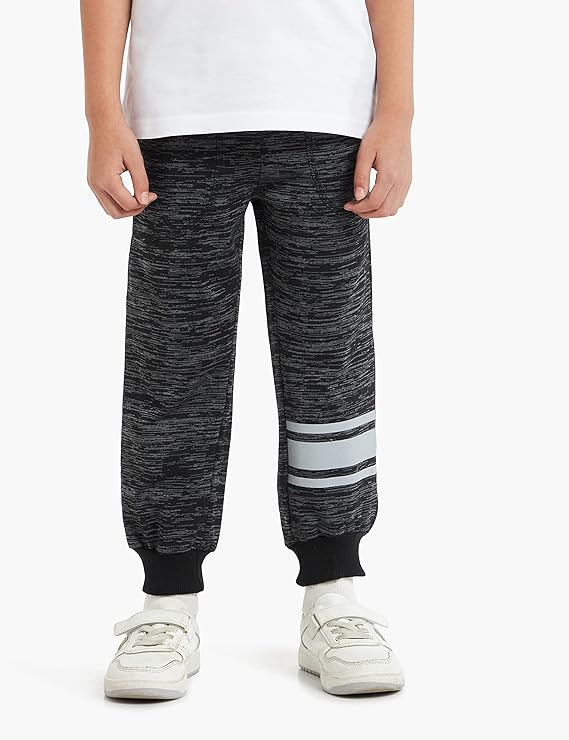
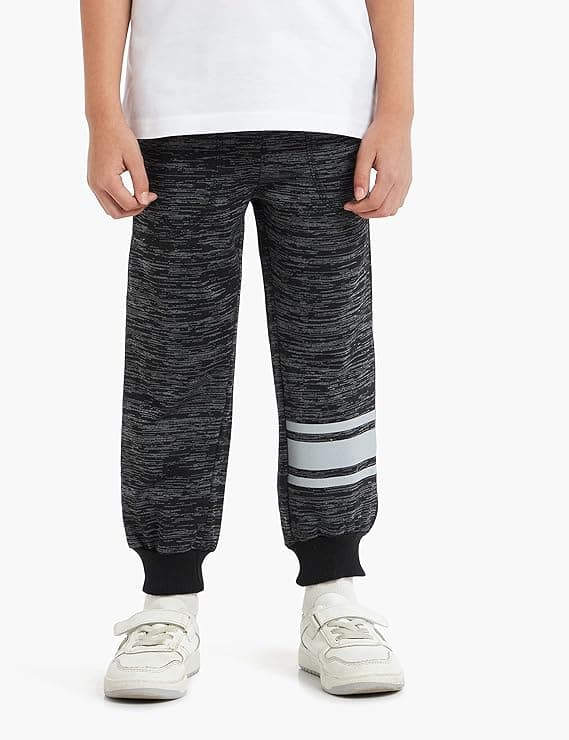
png to jpg all images

Changed region(s): [[0.5975, 0.3108, 0.6573, 0.5905], [0.6274, 0.6216, 0.6573, 0.7149], [0.239, 0.2797, 0.2689, 0.3108]]

diff --git a/lib/constants.ts b/lib/constants.ts
@@ -53,21 +53,21 @@ export const BOYS_PRODUCTS: Product[] = [
     name: 'Full Sleeves 1',
     category: 'Full Sleeves',
     gender: 'boys',
-    images: '/images/boys shortlisted/Full Sleeves/Gemini_Generated_Image_18rius18rius18ri.png',
+    images: '/images/boys shortlisted/Full Sleeves/Gemini_Generated_Image_18rius18rius18ri.jpg',
   },
   {
     id: 2,
     name: 'Full Sleeves 2',
     category: 'Full Sleeves',
     gender: 'boys',
-    images: '/images/boys shortlisted/Full Sleeves/Gemini_Generated_Image_wv47eqwv47eqwv47.png',
+    images: '/images/boys shortlisted/Full Sleeves/Gemini_Generated_Image_wv47eqwv47eqwv47.jpg',
   },
   {
     id: 3,
     name: 'Full Sleeves 3',
     category: 'Full Sleeves',
     gender: 'boys',
-    images: '/images/boys shortlisted/Full Sleeves/Gemini_Generated_Image_xvmfptxvmfptxvmf.png',
+    images: '/images/boys shortlisted/Full Sleeves/Gemini_Generated_Image_xvmfptxvmfptxvmf.jpg',
   },
   // Hoodie
   {
@@ -75,21 +75,21 @@ export const BOYS_PRODUCTS: Product[] = [
     name: 'Hoodie 1',
     category: 'Hoodie',
     gender: 'boys',
-    images: '/images/boys shortlisted/Hoodie/Gemini_Generated_Image_1a68y31a68y31a68.png',
+    images: '/images/boys shortlisted/Hoodie/Gemini_Generated_Image_1a68y31a68y31a68.jpg',
   },
   {
     id: 5,
     name: 'Hoodie 2',
     category: 'Hoodie',
     gender: 'boys',
-    images: '/images/boys shortlisted/Hoodie/Gemini_Generated_Image_igprgwigprgwigpr.png',
+    images: '/images/boys shortlisted/Hoodie/Gemini_Generated_Image_igprgwigprgwigpr.jpg',
   },
   {
     id: 6,
     name: 'Hoodie 3',
     category: 'Hoodie',
     gender: 'boys',
-    images: '/images/boys shortlisted/Hoodie/Gemini_Generated_Image_llsctyllsctyllsc.png',
+    images: '/images/boys shortlisted/Hoodie/Gemini_Generated_Image_llsctyllsctyllsc.jpg',
   },
   // Joggers
   {
@@ -97,14 +97,14 @@ export const BOYS_PRODUCTS: Product[] = [
     name: 'Joggers 1',
     category: 'Joggers',
     gender: 'boys',
-    images: '/images/boys shortlisted/Joggers/Gemini_Generated_Image_7o1x087o1x087o1x.png',
+    images: '/images/boys shortlisted/Joggers/Gemini_Generated_Image_7o1x087o1x087o1x.jpg',
   },
   {
     id: 8,
     name: 'Joggers 2',
     category: 'Joggers',
     gender: 'boys',
-    images: '/images/boys shortlisted/Joggers/Gemini_Generated_Image_95ssly95ssly95ss.png',
+    images: '/images/boys shortlisted/Joggers/Gemini_Generated_Image_95ssly95ssly95ss.jpg',
   },
   {
     id: 9,
@@ -119,14 +119,14 @@ export const BOYS_PRODUCTS: Product[] = [
     name: 'Polos 1',
     category: 'Polos',
     gender: 'boys',
-    images: '/images/boys shortlisted/Polos/Gemini_Generated_Image_f9yaibf9yaibf9ya.png',
+    images: '/images/boys shortlisted/Polos/Gemini_Generated_Image_f9yaibf9yaibf9ya.jpg',
   },
   {
     id: 11,
     name: 'Polos 2',
     category: 'Polos',
     gender: 'boys',
-    images: '/images/boys shortlisted/Polos/Gemini_Generated_Image_fpbfc8fpbfc8fpbf.png',
+    images: '/images/boys shortlisted/Polos/Gemini_Generated_Image_fpbfc8fpbfc8fpbf.jpg',
   },
   // Printed Full Sleeves
   {
@@ -134,7 +134,7 @@ export const BOYS_PRODUCTS: Product[] = [
     name: 'Printed Full Sleeves 1',
     category: 'Printed Full Sleeves',
     gender: 'boys',
-    images: '/images/boys shortlisted/Printed Full Sleeves/Gemini_Generated_Image_22d0fi22d0fi22d0.png',
+    images: '/images/boys shortlisted/Printed Full Sleeves/Gemini_Generated_Image_22d0fi22d0fi22d0.jpg',
   },
   // Printed Polo
   {
@@ -142,21 +142,21 @@ export const BOYS_PRODUCTS: Product[] = [
     name: 'Printed Polo 1',
     category: 'Printed Polo',
     gender: 'boys',
-    images: '/images/boys shortlisted/Printed Polo/Gemini_Generated_Image_d1b7d3d1b7d3d1b7.png',
+    images: '/images/boys shortlisted/Printed Polo/Gemini_Generated_Image_d1b7d3d1b7d3d1b7.jpg',
   },
   {
     id: 14,
     name: 'Printed Polo 2',
     category: 'Printed Polo',
     gender: 'boys',
-    images: '/images/boys shortlisted/Printed Polo/Gemini_Generated_Image_h3z66th3z66th3z6.png',
+    images: '/images/boys shortlisted/Printed Polo/Gemini_Generated_Image_h3z66th3z66th3z6.jpg',
   },
   {
     id: 15,
     name: 'Printed Polo 3',
     category: 'Printed Polo',
     gender: 'boys',
-    images: '/images/boys shortlisted/Printed Polo/Gemini_Generated_Image_tv95iytv95iytv95.png',
+    images: '/images/boys shortlisted/Printed Polo/Gemini_Generated_Image_tv95iytv95iytv95.jpg',
   },
   // Shorts
   {
@@ -164,21 +164,21 @@ export const BOYS_PRODUCTS: Product[] = [
     name: 'Shorts 1',
     category: 'Shorts',
     gender: 'boys',
-    images: '/images/boys shortlisted/Shorts/ChatGPT Image Mar 18, 2026, 02_05_31 PM.png',
+    images: '/images/boys shortlisted/Shorts/ChatGPT Image Mar 18, 2026, 02_05_31 PM.jpg',
   },
   {
     id: 17,
     name: 'Shorts 2',
     category: 'Shorts',
     gender: 'boys',
-    images: '/images/boys shortlisted/Shorts/Gemini_Generated_Image_5925s85925s85925.png',
+    images: '/images/boys shortlisted/Shorts/Gemini_Generated_Image_5925s85925s85925.jpg',
   },
   {
     id: 18,
     name: 'Shorts 3',
     category: 'Shorts',
     gender: 'boys',
-    images: '/images/boys shortlisted/Shorts/Gemini_Generated_Image_syaucksyaucksyau.png',
+    images: '/images/boys shortlisted/Shorts/Gemini_Generated_Image_syaucksyaucksyau.jpg',
   },
   // Slub Shorts
   {
@@ -186,21 +186,21 @@ export const BOYS_PRODUCTS: Product[] = [
     name: 'Slub Shorts 1',
     category: 'Slub Shorts',
     gender: 'boys',
-    images: '/images/boys shortlisted/Slub Shorts/Gemini_Generated_Image_8wnziu8wnziu8wnz (1).png',
+    images: '/images/boys shortlisted/Slub Shorts/Gemini_Generated_Image_8wnziu8wnziu8wnz (1).jpg',
   },
   {
     id: 20,
     name: 'Slub Shorts 2',
     category: 'Slub Shorts',
     gender: 'boys',
-    images: '/images/boys shortlisted/Slub Shorts/Gemini_Generated_Image_fzlizjfzlizjfzli.png',
+    images: '/images/boys shortlisted/Slub Shorts/Gemini_Generated_Image_fzlizjfzlizjfzli.jpg',
   },
   {
     id: 21,
     name: 'Slub Shorts 3',
     category: 'Slub Shorts',
     gender: 'boys',
-    images: '/images/boys shortlisted/Slub Shorts/Gemini_Generated_Image_m57e6vm57e6vm57e-Photoroom.png',
+    images: '/images/boys shortlisted/Slub Shorts/Gemini_Generated_Image_m57e6vm57e6vm57e-Photoroom.jpg',
   },
   // Solid Tshirts
   {
@@ -208,21 +208,21 @@ export const BOYS_PRODUCTS: Product[] = [
     name: 'Solid Tshirts 1',
     category: 'Solid Tshirts',
     gender: 'boys',
-    images: '/images/boys shortlisted/Solid Tshirts/Gemini_Generated_Image_e2phu9e2phu9e2ph-Photoroom.png',
+    images: '/images/boys shortlisted/Solid Tshirts/Gemini_Generated_Image_e2phu9e2phu9e2ph-Photoroom.jpg',
   },
   {
     id: 23,
     name: 'Solid Tshirts 2',
     category: 'Solid Tshirts',
     gender: 'boys',
-    images: '/images/boys shortlisted/Solid Tshirts/JWiOr-Photoroom.png',
+    images: '/images/boys shortlisted/Solid Tshirts/JWiOr-Photoroom.jpg',
   },
   {
     id: 24,
     name: 'Solid Tshirts 3',
     category: 'Solid Tshirts',
     gender: 'boys',
-    images: '/images/boys shortlisted/Solid Tshirts/qYMfp-Photoroom.png',
+    images: '/images/boys shortlisted/Solid Tshirts/qYMfp-Photoroom.jpg',
   },
 ];
 
@@ -233,21 +233,21 @@ export const GIRLS_PRODUCTS: Product[] = [
     name: 'Coord Set 1',
     category: 'Coord Set',
     gender: 'girls',
-    images: '/images/girls shortlisted/Coord Set/ChatGPT Image Feb 17, 2026, 01_18_00 PM.png',
+    images: '/images/girls shortlisted/Coord Set/ChatGPT Image Feb 17, 2026, 01_18_00 PM.jpg',
   },
   {
     id: 26,
     name: 'Coord Set 2',
     category: 'Coord Set',
     gender: 'girls',
-    images: '/images/girls shortlisted/Coord Set/Gemini_Generated_Image_awt7r6awt7r6awt7.png',
+    images: '/images/girls shortlisted/Coord Set/Gemini_Generated_Image_awt7r6awt7r6awt7.jpg',
   },
   {
     id: 27,
     name: 'Coord Set 3',
     category: 'Coord Set',
     gender: 'girls',
-    images: '/images/girls shortlisted/Coord Set/Gemini_Generated_Image_pi4zu3pi4zu3pi4z.png',
+    images: '/images/girls shortlisted/Coord Set/Gemini_Generated_Image_pi4zu3pi4zu3pi4z.jpg',
   },
   // Hoodies
   {
@@ -269,7 +269,7 @@ export const GIRLS_PRODUCTS: Product[] = [
     name: 'Hoodies 3',
     category: 'Hoodies',
     gender: 'girls',
-    images: '/images/girls shortlisted/Hoodies/Gemini_Generated_Image_2v5wzi2v5wzi2v5w.png',
+    images: '/images/girls shortlisted/Hoodies/Gemini_Generated_Image_2v5wzi2v5wzi2v5w.jpg',
   },
   // Joggers
   {
@@ -277,21 +277,21 @@ export const GIRLS_PRODUCTS: Product[] = [
     name: 'Joggers 1',
     category: 'Joggers',
     gender: 'girls',
-    images: '/images/girls shortlisted/Joggers/Gemini_Generated_Image_2o6ugp2o6ugp2o6u.png',
+    images: '/images/girls shortlisted/Joggers/Gemini_Generated_Image_2o6ugp2o6ugp2o6u.jpg',
   },
   {
     id: 32,
     name: 'Joggers 2',
     category: 'Joggers',
     gender: 'girls',
-    images: '/images/girls shortlisted/Joggers/Gemini_Generated_Image_7z75ub7z75ub7z75.png',
+    images: '/images/girls shortlisted/Joggers/Gemini_Generated_Image_7z75ub7z75ub7z75.jpg',
   },
   {
     id: 33,
     name: 'Joggers 3',
     category: 'Joggers',
     gender: 'girls',
-    images: '/images/girls shortlisted/Joggers/Gemini_Generated_Image_v9rjijv9rjijv9rj.png',
+    images: '/images/girls shortlisted/Joggers/Gemini_Generated_Image_v9rjijv9rjijv9rj.jpg',
   },
   // Pajamas
   {
@@ -299,7 +299,7 @@ export const GIRLS_PRODUCTS: Product[] = [
     name: 'Pajamas 1',
     category: 'Pajamas',
     gender: 'girls',
-    images: '/images/girls shortlisted/Pajamas/Gemini_Generated_Image_69clf769clf769cl.png',
+    images: '/images/girls shortlisted/Pajamas/Gemini_Generated_Image_69clf769clf769cl.jpg',
   },
   // Shorts
   {
@@ -307,21 +307,21 @@ export const GIRLS_PRODUCTS: Product[] = [
     name: 'Shorts 1',
     category: 'Shorts',
     gender: 'girls',
-    images: '/images/girls shortlisted/Shorts/Firefly_Gemini Flash_intha image vanthu 13-14 years rendu girl model wear panni irukura maari venum and av 203503 (1)-Photoroom.png',
+    images: '/images/girls shortlisted/Shorts/Firefly_Gemini Flash_intha image vanthu 13-14 years rendu girl model wear panni irukura maari venum and av 203503-Photoroom.jpg',
   },
   {
     id: 36,
     name: 'Shorts 2',
     category: 'Shorts',
     gender: 'girls',
-    images: '/images/girls shortlisted/Shorts/Firefly_Gemini Flash_intha image vanthu 13-14 years rendu girl model wear panni irukura maari venum and av 203503-Photoroom.png',
+    images: '/images/girls shortlisted/Shorts/Firefly_Gemini Flash_intha image vanthu 13-14 years rendu girl model wear panni irukura maari venum and av 203503-Photoroom.jpg',
   },
   {
     id: 37,
     name: 'Shorts 3',
     category: 'Shorts',
     gender: 'girls',
-    images: '/images/girls shortlisted/Shorts/Gemini_Generated_Image_2ubpkf2ubpkf2ubp.png',
+    images: '/images/girls shortlisted/Shorts/Gemini_Generated_Image_2ubpkf2ubpkf2ubp.jpg',
   },
   // Sleeper
   {
@@ -329,20 +329,20 @@ export const GIRLS_PRODUCTS: Product[] = [
     name: 'Sleeper 1',
     category: 'Sleeper',
     gender: 'girls',
-    images: '/images/girls shortlisted/Sleeper/Gemini_Generated_Image_mbojr0mbojr0mboj.png',
+    images: '/images/girls shortlisted/Sleeper/Gemini_Generated_Image_mbojr0mbojr0mboj.jpg',
   },
   {
     id: 39,
     name: 'Sleeper 2',
     category: 'Sleeper',
     gender: 'girls',
-    images: '/images/girls shortlisted/Sleeper/Gemini_Generated_Image_udde4budde4budde.png',
+    images: '/images/girls shortlisted/Sleeper/Gemini_Generated_Image_udde4budde4budde.jpg',
   },
   {
     id: 40,
     name: 'Sleeper 3',
     category: 'Sleeper',
     gender: 'girls',
-    images: '/images/girls shortlisted/Sleeper/Gemini_Generated_Image_x09j6dx09j6dx09j.png',
+    images: '/images/girls shortlisted/Sleeper/Gemini_Generated_Image_x09j6dx09j6dx09j.jpg',
   },
 ];

diff --git a/app/[category]/page.tsx b/app/[category]/page.tsx
@@ -12,50 +12,50 @@ import { containerVariants, itemVariants } from '@/lib/animations';
 
 // All boy shortlisted images
 const BOYS_IMAGES = [
-  '/images/boys shortlisted/Full Sleeves/Gemini_Generated_Image_18rius18rius18ri.png',
-  '/images/boys shortlisted/Full Sleeves/Gemini_Generated_Image_wv47eqwv47eqwv47.png',
-  '/images/boys shortlisted/Full Sleeves/Gemini_Generated_Image_xvmfptxvmfptxvmf.png',
-  '/images/boys shortlisted/Hoodie/Gemini_Generated_Image_1a68y31a68y31a68.png',
-  '/images/boys shortlisted/Hoodie/Gemini_Generated_Image_igprgwigprgwigpr.png',
-  '/images/boys shortlisted/Hoodie/Gemini_Generated_Image_llsctyllsctyllsc.png',
-  '/images/boys shortlisted/Joggers/Gemini_Generated_Image_7o1x087o1x087o1x.png',
-  '/images/boys shortlisted/Joggers/Gemini_Generated_Image_95ssly95ssly95ss.png',
+  '/images/boys shortlisted/Full Sleeves/Gemini_Generated_Image_18rius18rius18ri.jpg',
+  '/images/boys shortlisted/Full Sleeves/Gemini_Generated_Image_wv47eqwv47eqwv47.jpg',
+  '/images/boys shortlisted/Full Sleeves/Gemini_Generated_Image_xvmfptxvmfptxvmf.jpg',
+  '/images/boys shortlisted/Hoodie/Gemini_Generated_Image_1a68y31a68y31a68.jpg',
+  '/images/boys shortlisted/Hoodie/Gemini_Generated_Image_igprgwigprgwigpr.jpg',
+  '/images/boys shortlisted/Hoodie/Gemini_Generated_Image_llsctyllsctyllsc.jpg',
+  '/images/boys shortlisted/Joggers/Gemini_Generated_Image_7o1x087o1x087o1x.jpg',
+  '/images/boys shortlisted/Joggers/Gemini_Generated_Image_95ssly95ssly95ss.jpg',
   '/images/boys shortlisted/Joggers/img 2.jpg',
-  '/images/boys shortlisted/Polos/Gemini_Generated_Image_f9yaibf9yaibf9ya.png',
-  '/images/boys shortlisted/Polos/Gemini_Generated_Image_fpbfc8fpbfc8fpbf.png',
-  '/images/boys shortlisted/Printed Full Sleeves/Gemini_Generated_Image_22d0fi22d0fi22d0.png',
-  '/images/boys shortlisted/Printed Polo/Gemini_Generated_Image_d1b7d3d1b7d3d1b7.png',
-  '/images/boys shortlisted/Printed Polo/Gemini_Generated_Image_h3z66th3z66th3z6.png',
-  '/images/boys shortlisted/Printed Polo/Gemini_Generated_Image_tv95iytv95iytv95.png',
-  '/images/boys shortlisted/Shorts/ChatGPT Image Mar 18, 2026, 02_05_31 PM.png',
-  '/images/boys shortlisted/Shorts/Gemini_Generated_Image_5925s85925s85925.png',
-  '/images/boys shortlisted/Shorts/Gemini_Generated_Image_syaucksyaucksyau.png',
-  '/images/boys shortlisted/Slub Shorts/Gemini_Generated_Image_8wnziu8wnziu8wnz (1).png',
-  '/images/boys shortlisted/Slub Shorts/Gemini_Generated_Image_fzlizjfzlizjfzli.png',
-  '/images/boys shortlisted/Slub Shorts/Gemini_Generated_Image_m57e6vm57e6vm57e-Photoroom.png',
-  '/images/boys shortlisted/Solid Tshirts/Gemini_Generated_Image_e2phu9e2phu9e2ph-Photoroom.png',
-  '/images/boys shortlisted/Solid Tshirts/JWiOr-Photoroom.png',
-  '/images/boys shortlisted/Solid Tshirts/qYMfp-Photoroom.png',
+  '/images/boys shortlisted/Polos/Gemini_Generated_Image_f9yaibf9yaibf9ya.jpg',
+  '/images/boys shortlisted/Polos/Gemini_Generated_Image_fpbfc8fpbfc8fpbf.jpg',
+  '/images/boys shortlisted/Printed Full Sleeves/Gemini_Generated_Image_22d0fi22d0fi22d0.jpg',
+  '/images/boys shortlisted/Printed Polo/Gemini_Generated_Image_d1b7d3d1b7d3d1b7.jpg',
+  '/images/boys shortlisted/Printed Polo/Gemini_Generated_Image_h3z66th3z66th3z6.jpg',
+  '/images/boys shortlisted/Printed Polo/Gemini_Generated_Image_tv95iytv95iytv95.jpg',
+  '/images/boys shortlisted/Shorts/ChatGPT Image Mar 18, 2026, 02_05_31 PM.jpg',
+  '/images/boys shortlisted/Shorts/Gemini_Generated_Image_5925s85925s85925.jpg',
+  '/images/boys shortlisted/Shorts/Gemini_Generated_Image_syaucksyaucksyau.jpg',
+  '/images/boys shortlisted/Slub Shorts/Gemini_Generated_Image_8wnziu8wnziu8wnz (1).jpg',
+  '/images/boys shortlisted/Slub Shorts/Gemini_Generated_Image_fzlizjfzlizjfzli.jpg',
+  '/images/boys shortlisted/Slub Shorts/Gemini_Generated_Image_m57e6vm57e6vm57e-Photoroom.jpg',
+  '/images/boys shortlisted/Solid Tshirts/Gemini_Generated_Image_e2phu9e2phu9e2ph-Photoroom.jpg',
+  '/images/boys shortlisted/Solid Tshirts/JWiOr-Photoroom.jpg',
+  '/images/boys shortlisted/Solid Tshirts/qYMfp-Photoroom.jpg',
 ];
 
 // All girls shortlisted images
 const GIRLS_IMAGES = [
-  '/images/girls shortlisted/Coord Set/ChatGPT Image Feb 17, 2026, 01_18_00 PM.png',
-  '/images/girls shortlisted/Coord Set/Gemini_Generated_Image_69clf769clf769cl.png',
-  '/images/girls shortlisted/Coord Set/Gemini_Generated_Image_awt7r6awt7r6awt7.png',
-  '/images/girls shortlisted/Coord Set/Gemini_Generated_Image_pi4zu3pi4zu3pi4z.png',
+  '/images/girls shortlisted/Coord Set/ChatGPT Image Feb 17, 2026, 01_18_00 PM.jpg',
+  '/images/girls shortlisted/Coord Set/Gemini_Generated_Image_69clf769clf769cl.jpg',
+  '/images/girls shortlisted/Coord Set/Gemini_Generated_Image_awt7r6awt7r6awt7.jpg',
+  '/images/girls shortlisted/Coord Set/Gemini_Generated_Image_pi4zu3pi4zu3pi4z.jpg',
   '/images/girls shortlisted/Hoodies/2a9ff8f8-f775-488e-9642-d40eec8c0a70.jpg',
   '/images/girls shortlisted/Hoodies/780db7b2-826b-432f-99f1-b99ca7cfc5af.jpg',
-  '/images/girls shortlisted/Hoodies/Gemini_Generated_Image_2v5wzi2v5wzi2v5w.png',
-  '/images/girls shortlisted/Joggers/Gemini_Generated_Image_2o6ugp2o6ugp2o6u.png',
-  '/images/girls shortlisted/Joggers/Gemini_Generated_Image_7z75ub7z75ub7z75.png',
-  '/images/girls shortlisted/Joggers/Gemini_Generated_Image_v9rjijv9rjijv9rj.png',
-  '/images/girls shortlisted/Pajamas/Gemini_Generated_Image_69clf769clf769cl.png',
-  '/images/girls shortlisted/Shorts/Firefly_Gemini Flash_intha image vanthu 13-14 years rendu girl model wear panni irukura maari venum and av 203503-Photoroom.png',
-  '/images/girls shortlisted/Shorts/Gemini_Generated_Image_2ubpkf2ubpkf2ubp.png',
-  '/images/girls shortlisted/Sleeper/Gemini_Generated_Image_mbojr0mbojr0mboj.png',
-  '/images/girls shortlisted/Sleeper/Gemini_Generated_Image_udde4budde4budde.png',
-  '/images/girls shortlisted/Sleeper/Gemini_Generated_Image_x09j6dx09j6dx09j.png',
+  '/images/girls shortlisted/Hoodies/Gemini_Generated_Image_2v5wzi2v5wzi2v5w.jpg',
+  '/images/girls shortlisted/Joggers/Gemini_Generated_Image_2o6ugp2o6ugp2o6u.jpg',
+  '/images/girls shortlisted/Joggers/Gemini_Generated_Image_7z75ub7z75ub7z75.jpg',
+  '/images/girls shortlisted/Joggers/Gemini_Generated_Image_v9rjijv9rjijv9rj.jpg',
+  '/images/girls shortlisted/Pajamas/Gemini_Generated_Image_69clf769clf769cl.jpg',
+  '/images/girls shortlisted/Shorts/Firefly_Gemini Flash_intha image vanthu 13-14 years rendu girl model wear panni irukura maari venum and av 203503-Photoroom.jpg',
+  '/images/girls shortlisted/Shorts/Gemini_Generated_Image_2ubpkf2ubpkf2ubp.jpg',
+  '/images/girls shortlisted/Sleeper/Gemini_Generated_Image_mbojr0mbojr0mboj.jpg',
+  '/images/girls shortlisted/Sleeper/Gemini_Generated_Image_udde4budde4budde.jpg',
+  '/images/girls shortlisted/Sleeper/Gemini_Generated_Image_x09j6dx09j6dx09j.jpg',
 ];
 
 const getRandomImages = (images: string[], count: number) => {
